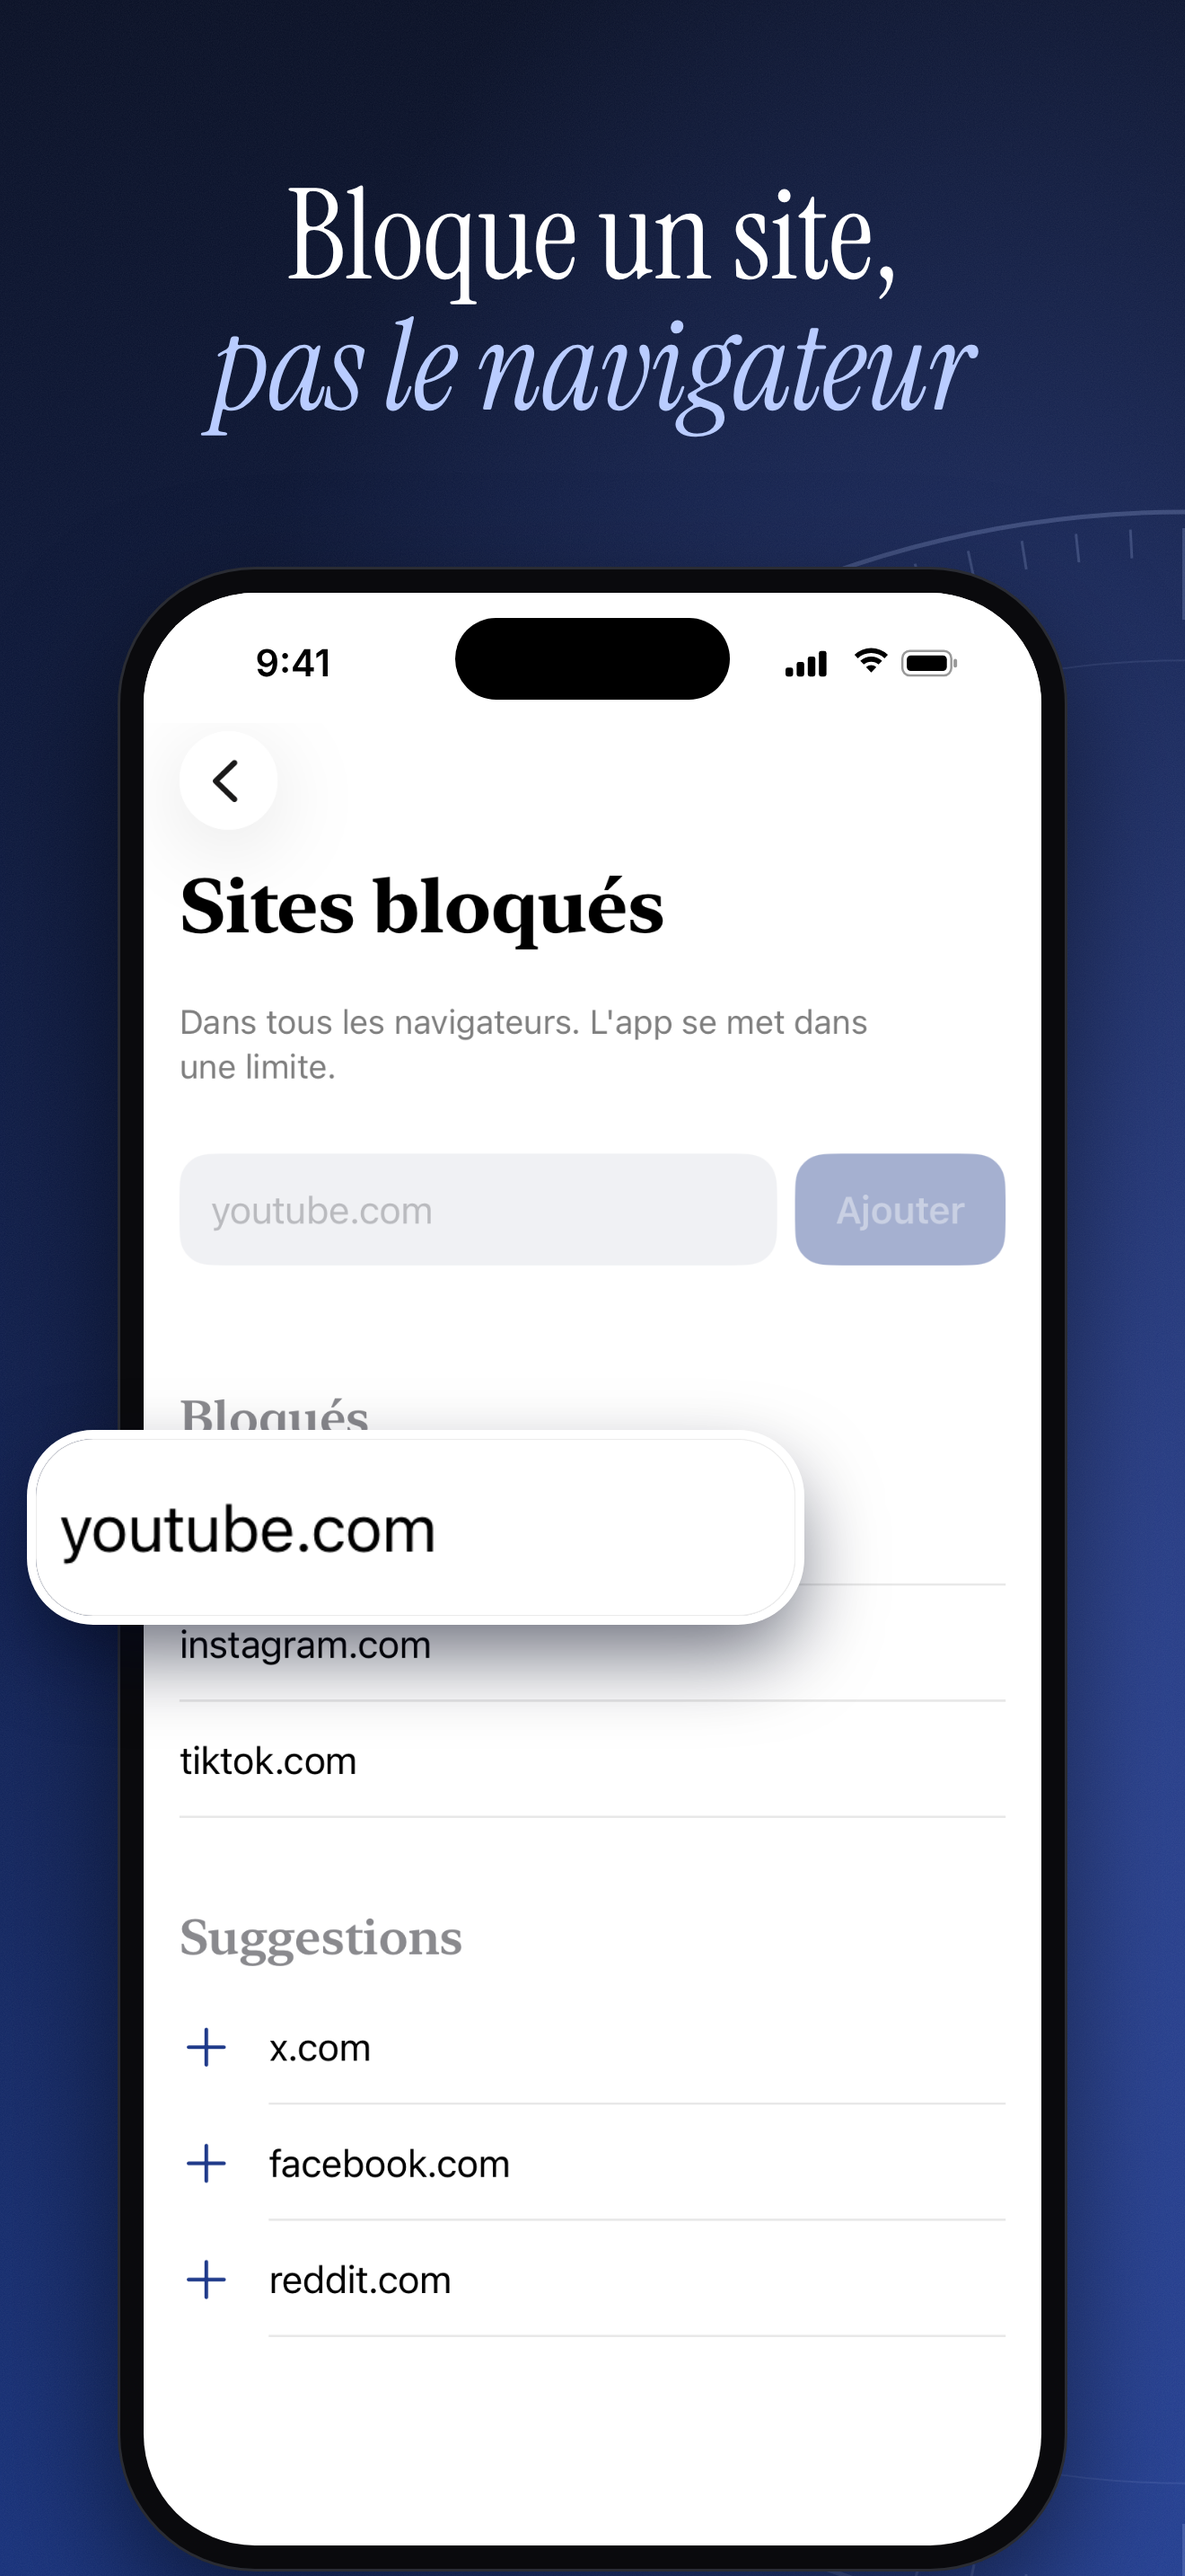
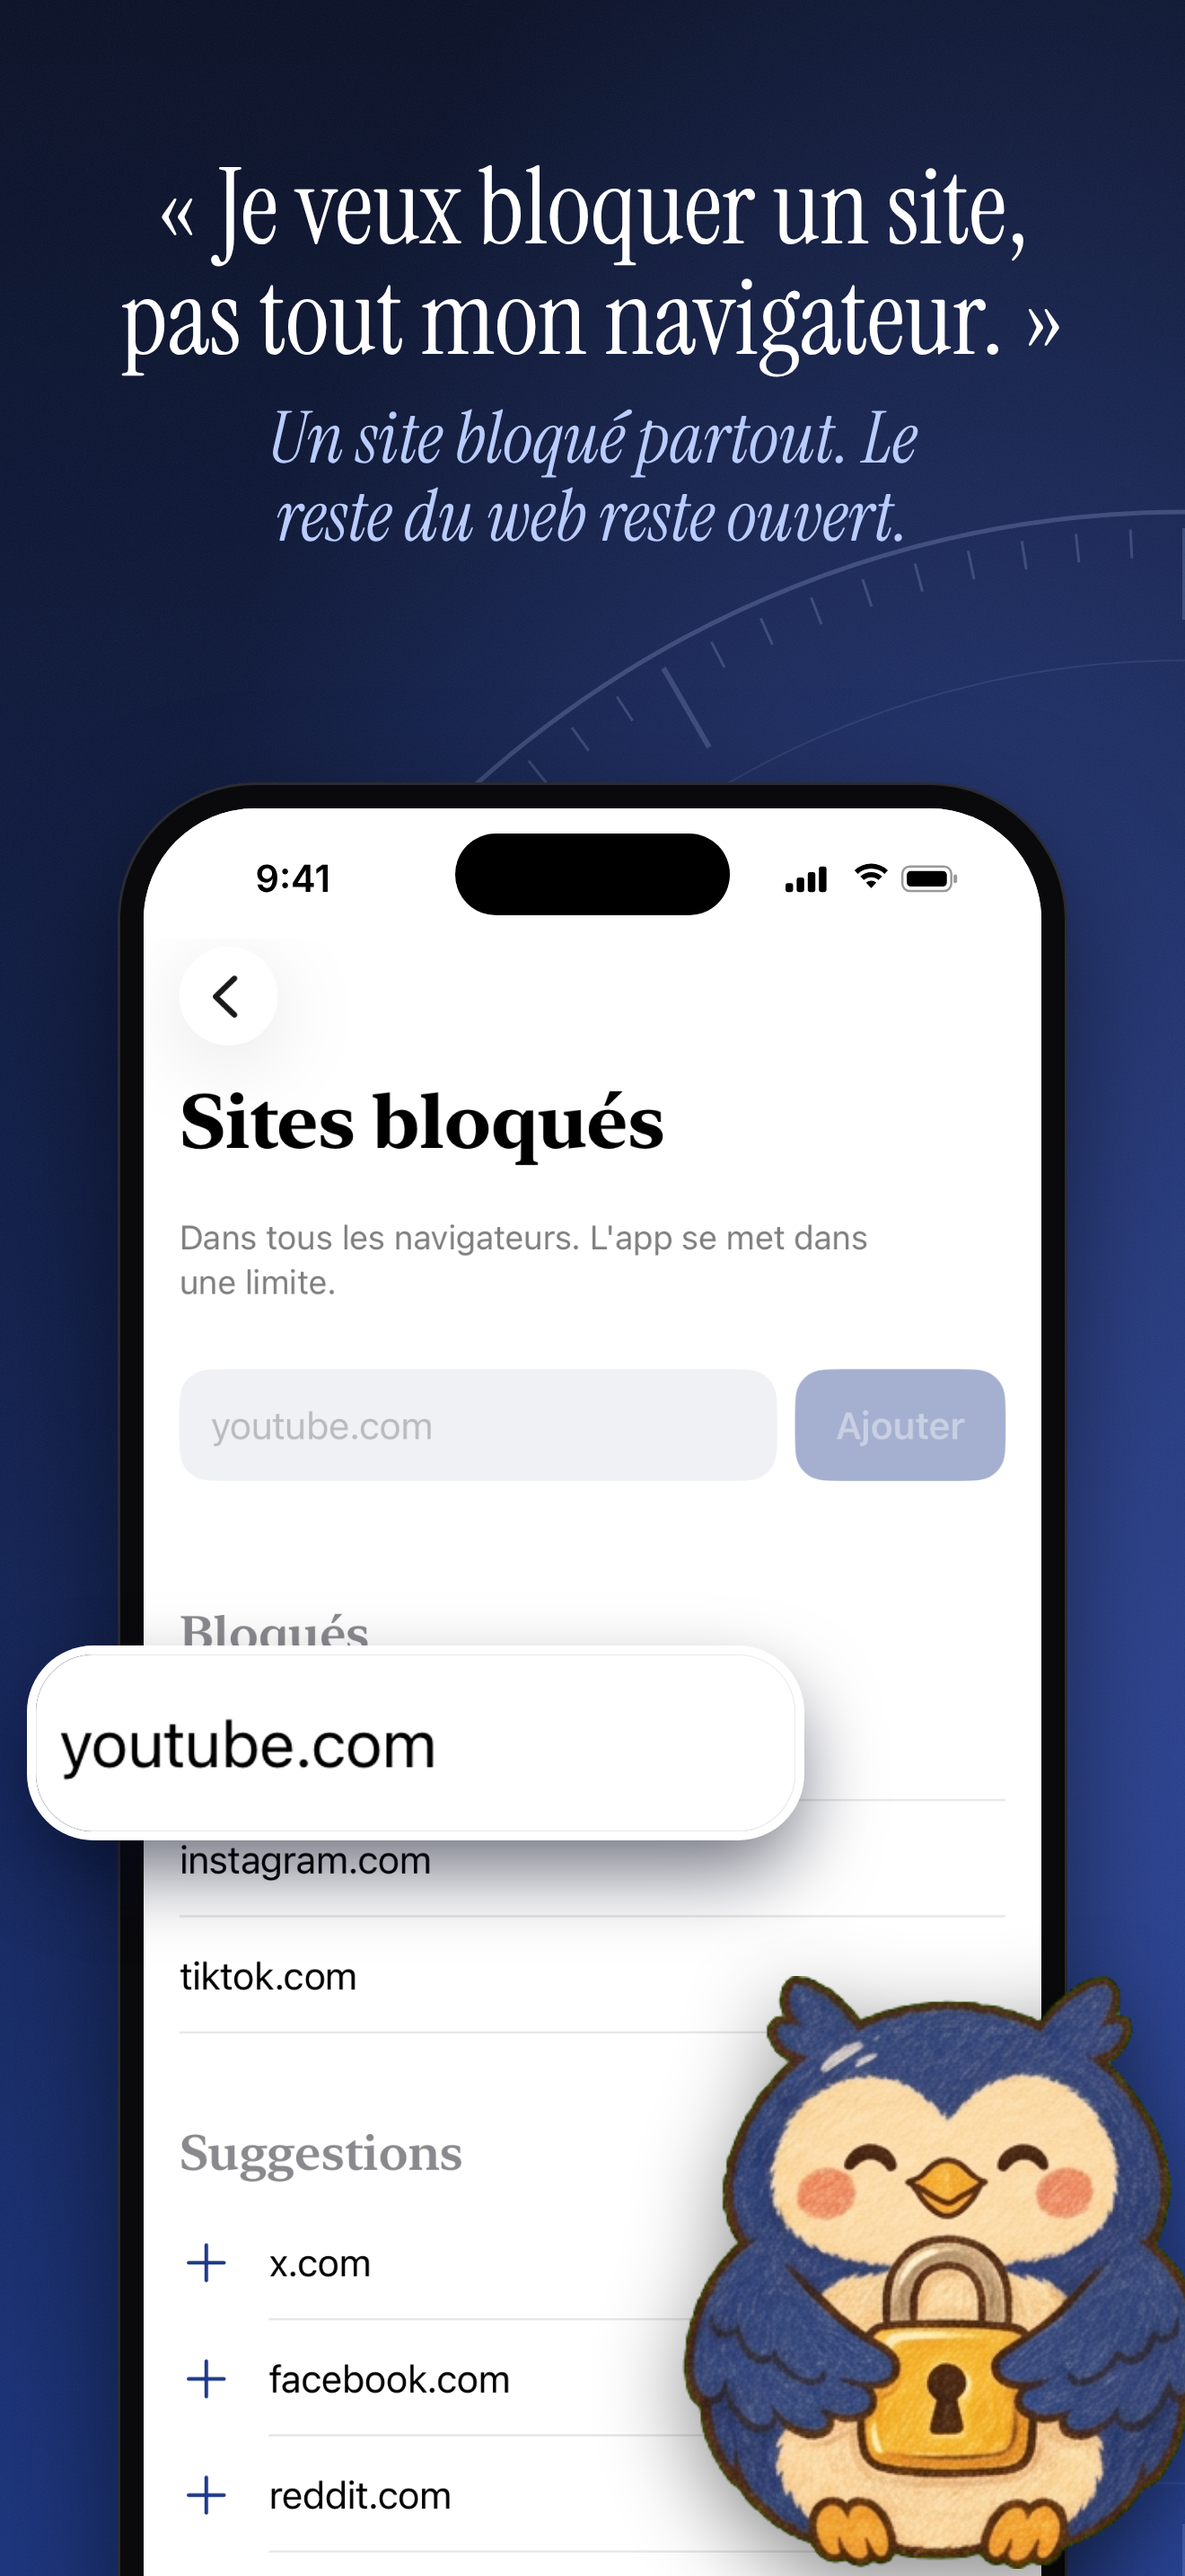
Captures : la phrase qu'on se dit, la réponse de l'app, et le hibou dans six poses
Claude-Session: https://claude.ai/code/session_01TYipbLJvG7GvXJ4P9uzJev

diff --git a/fiche/version-1.0.md b/fiche/version-1.0.md
@@ -53,15 +53,17 @@ Time Keeper demande l'accès à Temps d'écran pour pouvoir bloquer. iOS 17.4 ou
 
 ### Légendes des captures
 
-| # | Fichier | Titre | Loupe |
-|---|---|---|---|
-| 1 | `01-limite-qui-tient` | Une limite de temps d'écran *qui tient* | « Bloqué jusqu'à 04:00 » |
-| 2 | `02-juste-fermer` | Limite atteinte ? *Juste « Fermer ».* | le bouton « Fermer » |
-| 3 | `03-un-site-pas-le-navigateur` | Bloque un site, *pas le navigateur* | un site bloqué |
-| 4 | `04-assouplir-24h` | Envie de tricher ? Il faudra *attendre 24 h* | la bannière « Assouplissement en attente » |
-| 5 | `05-impossible-a-supprimer` | Même supprimer l'app *ne marche pas* | « Empêcher la suppression d'apps » |
-| 6 | `06-rien-ne-quitte-ton-iphone` | *Rien* ne quitte ton iPhone | « Rien ne quitte ton iPhone. » |
-| 7 | `07-ton-temps-te-revient` | Ton temps *te revient* | aucune |
+Chaque capture part d'une phrase que la personne s'est déjà dite, puis montre la réponse de l'app. Le hibou change de pose à chaque fois.
+
+| # | Fichier | Ce qu'elle se dit | La réponse | Hibou |
+|---|---|---|---|---|
+| 1 | `01-encore-5-minutes` | « Encore 5 minutes… » Il y a deux heures. | Une limite de temps d'écran qui tient vraiment. | bras croisés |
+| 2 | `02-juste-fermer` | « J'appuie sur Ignorer sans même réfléchir. » | Ici, il n'y a qu'un bouton : Fermer. | montre le bouton |
+| 3 | `03-un-site-pas-le-navigateur` | « Je veux bloquer un site, pas tout mon navigateur. » | Un site bloqué partout. Le reste du web reste ouvert. | cadenas |
+| 4 | `04-assouplir-24h` | « Je rallonge ma limite dès que ça m'arrange. » | Assouplir une règle prend 24 h. | patient sur sa montre |
+| 5 | `05-impossible-a-supprimer` | « Je supprime l'app et c'est réglé. » | Pas cette fois : la suppression est verrouillée. | fait non |
+| 6 | `06-sans-abonnement` | « Encore un abonnement pour arrêter de scroller ? » | Gratuit, sans compte. Rien ne quitte ton iPhone. | aucun |
+| 7 | `07-ton-temps-te-revient` | « Ce soir, j'ai lu un livre. » | Ton temps te revient. | lit un livre |
 
 Les trois premières portent les mots cherchés : limite, temps d'écran, bloquer, site, navigateur.
 
@@ -114,3 +116,4 @@ Time Keeper asks for Screen Time access to block apps. Requires iOS 17.4 or late
 
 ## Journal
 - 2026-11-21 : première fiche complète, 7 captures sur fond cadran.
+- 2026-11-21 : légendes réécrites en phrases que la personne se dit, hibou dans six poses.

diff --git a/store/README.md b/store/README.md
@@ -10,5 +10,6 @@ NODE_PATH=$(npm root -g) node store/make/render.cjs
 - `make/slides.json` : le titre, l'écran et la loupe de chaque capture (`crop` = centre x, centre y, largeur, hauteur en pixels de la capture brute).
 - `make/shield.html` : l'écran de blocage, que le simulateur ne sait pas afficher.
 - `make/fonts` : Instrument Serif (licence OFL).
+- `make/owl` : le hibou dans six poses, détouré.
 
 Les légendes et le texte de la fiche sont dans `fiche/version-1.0.md`.
